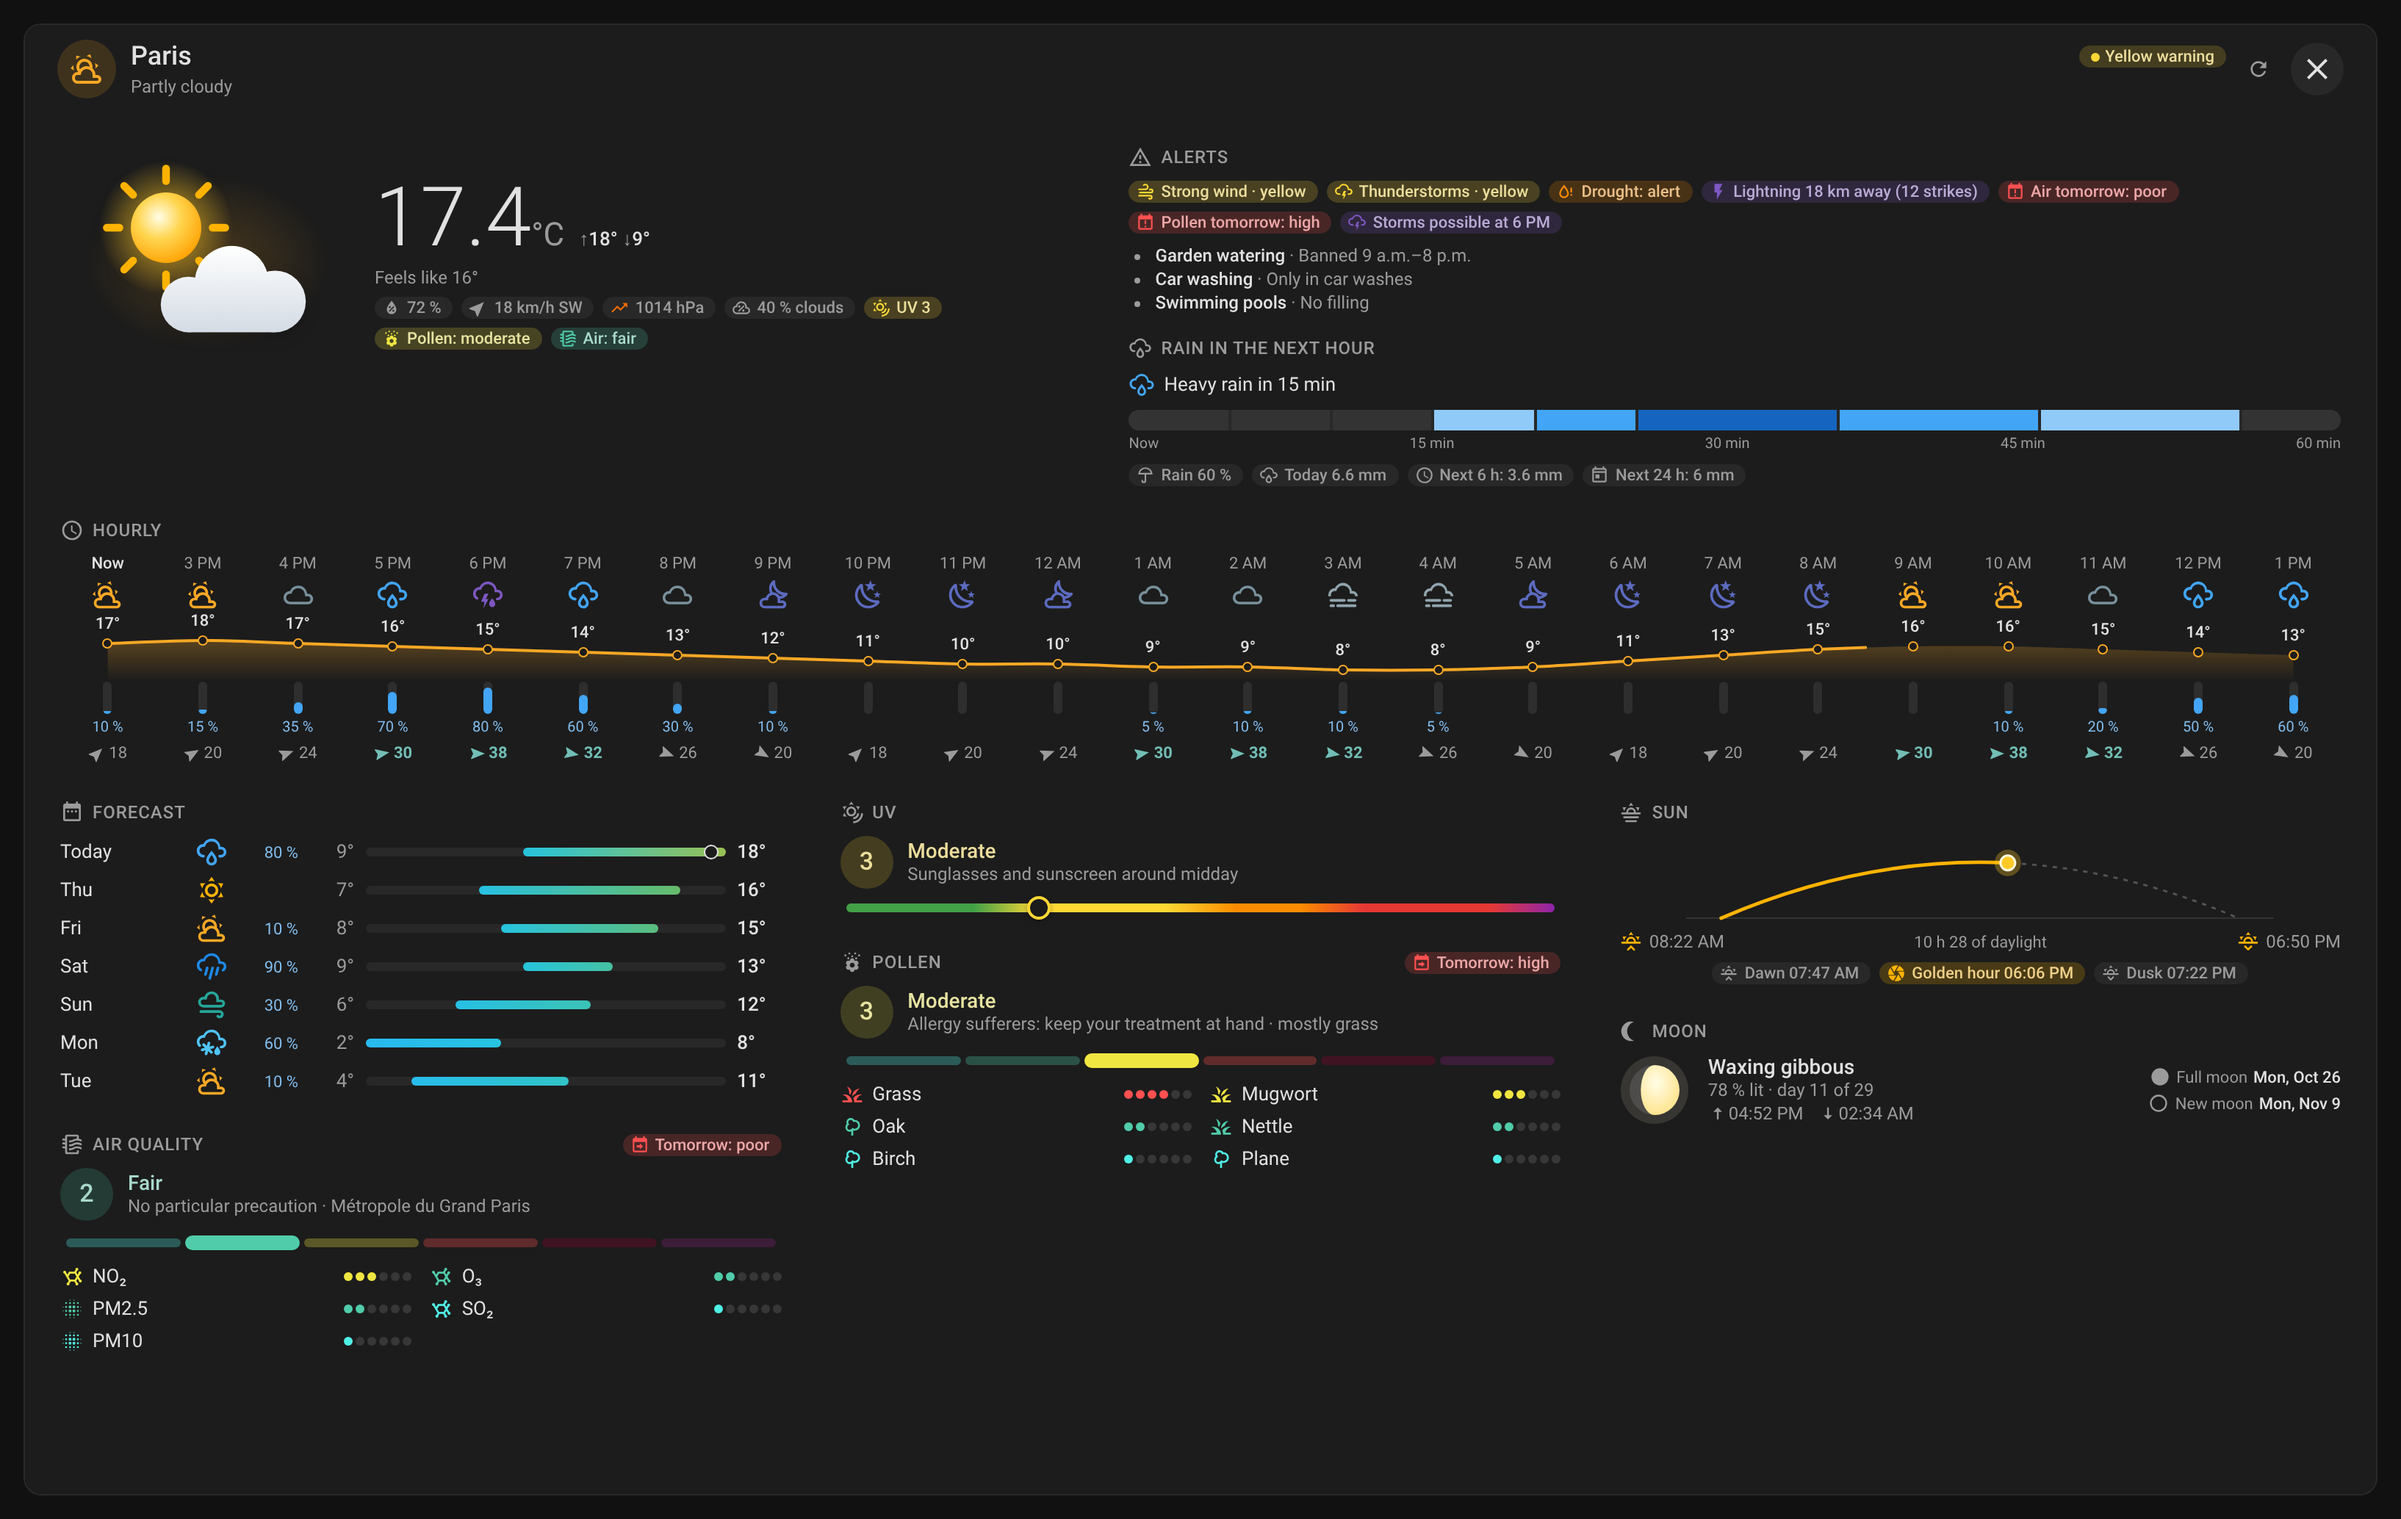
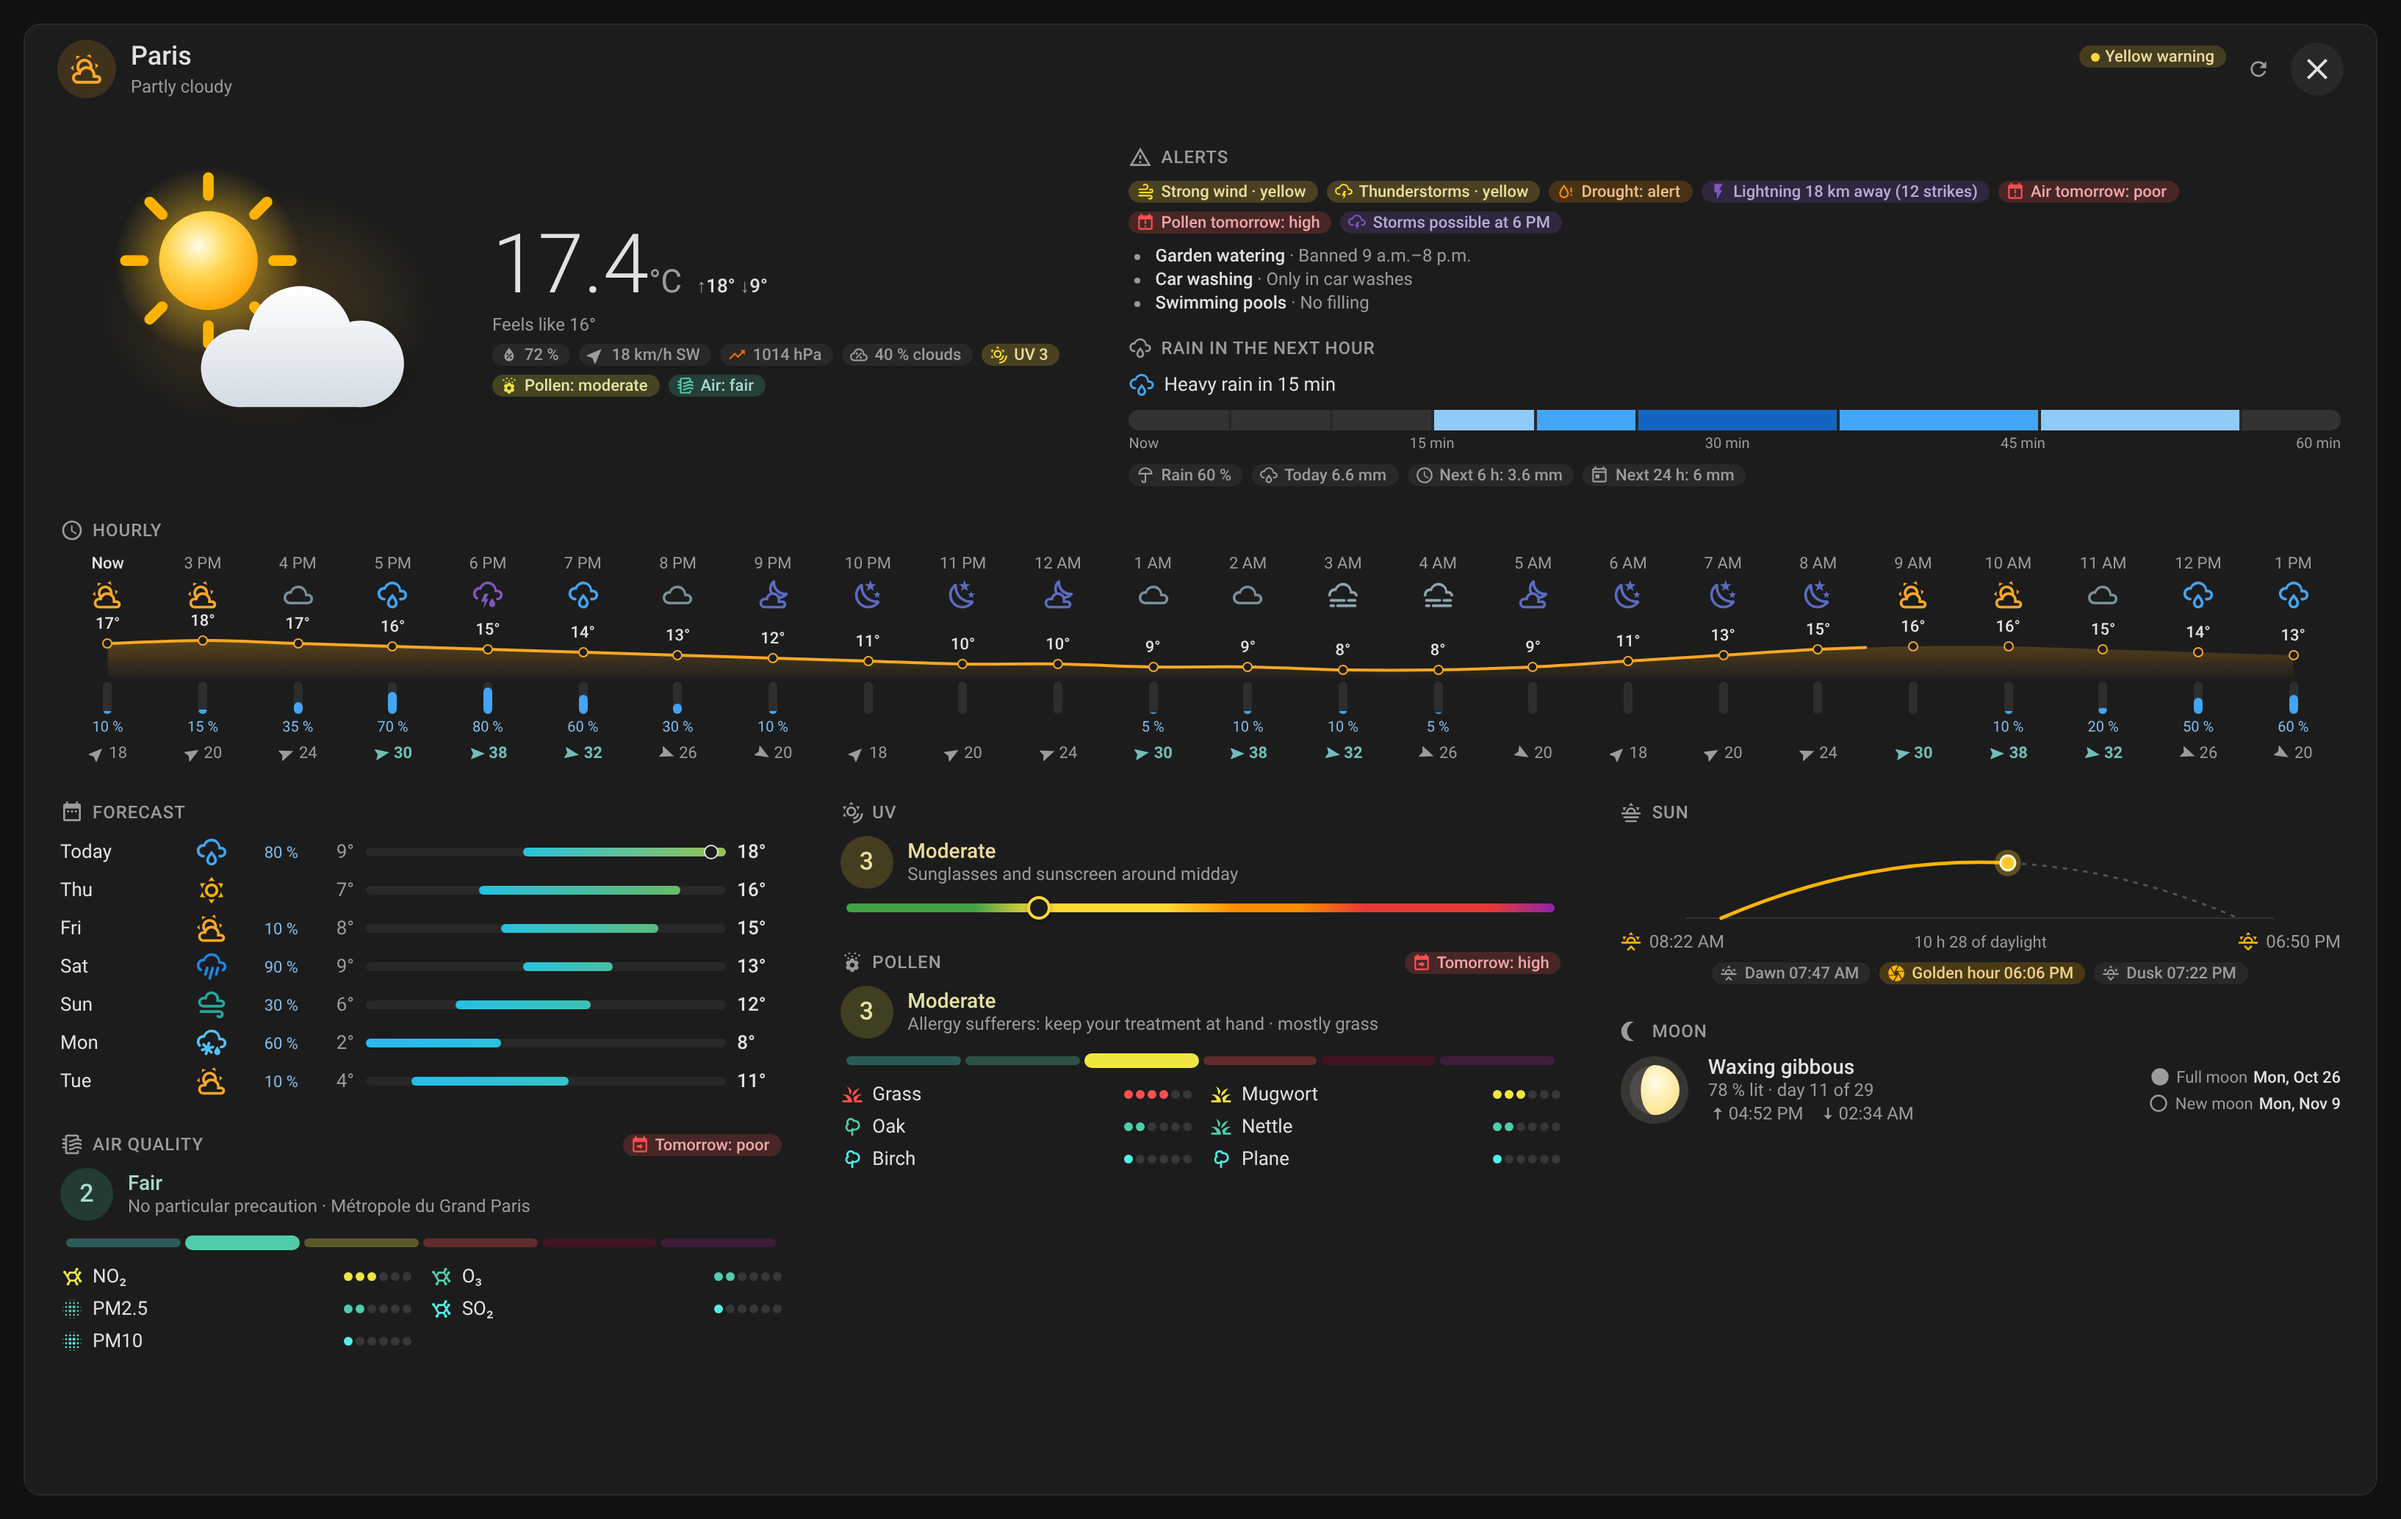
style: enlarge the full-screen popup scene on wide screens (1.13.3) (#57)
On wide screens (>=760px) the full-screen detail's weather scene grows to 280x224 (from 200x160), keeping its 1.25 ratio. Phones stay at 160x128. Bumps 1.13.2 -> 1.13.3 with CHANGELOG entry; screenshots refreshed.

Changed region(s): [[0.0312, 0.0928, 0.4058, 0.2785], [0.4058, 0.2166, 0.437, 0.2476]]

diff --git a/src/sections.js b/src/sections.js
@@ -827,7 +827,7 @@ const WX_POPUP_STYLES = `
   @media (min-width: 760px) {
     ha-card.popup { gap: 22px; padding-left: max(24px, env(safe-area-inset-left)); padding-right: max(24px, env(safe-area-inset-right)); }
     .popup .top { display: grid; grid-template-columns: minmax(0, 5fr) minmax(0, 6fr); gap: 20px 40px; align-items: start; }
-    .popup .scene { width: 200px; height: 160px; border-radius: 24px; }
+    .popup .scene { width: 280px; height: 224px; border-radius: 28px; }
     .popup .big .val { font-size: 56px; }
     .popup .big .val small { font-size: 22px; }
     .popup .flow { display: block; columns: 2 340px; column-gap: 40px; }

diff --git a/CHANGELOG.md b/CHANGELOG.md
@@ -1,5 +1,10 @@
 # Changelog
 
+## 1.13.3 - 2026-11-16
+
+### Changes
+- The full-screen detail's weather scene is larger again on wider screens: 280×224 (up from 200×160), keeping its 1.25 ratio. Phones stay at 160×128.
+
 ## 1.13.2 - 2026-11-16
 
 ### Changes
